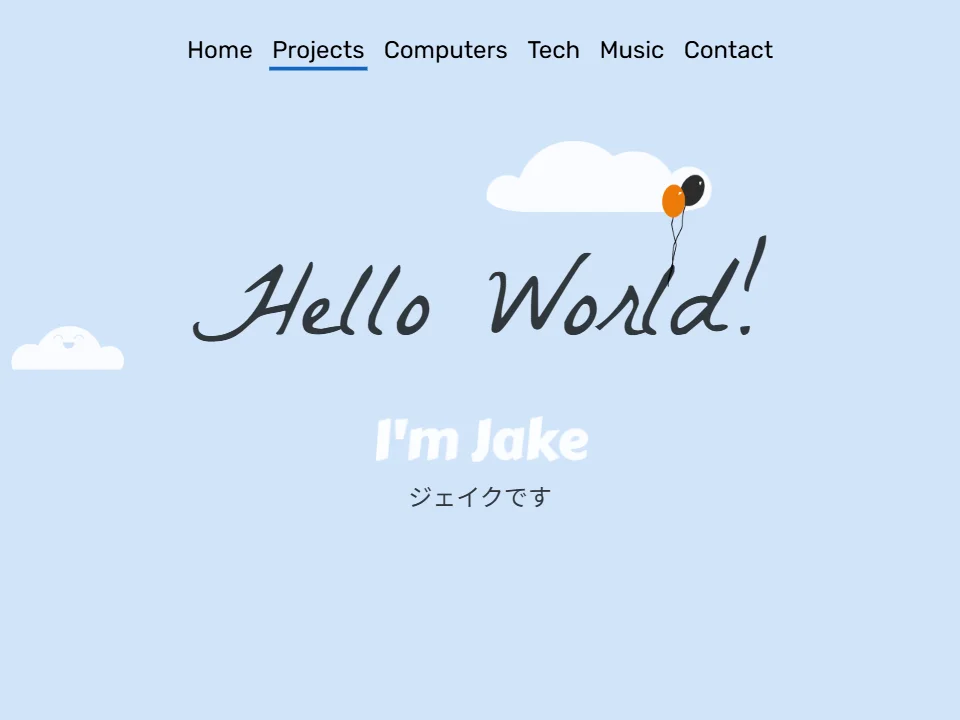
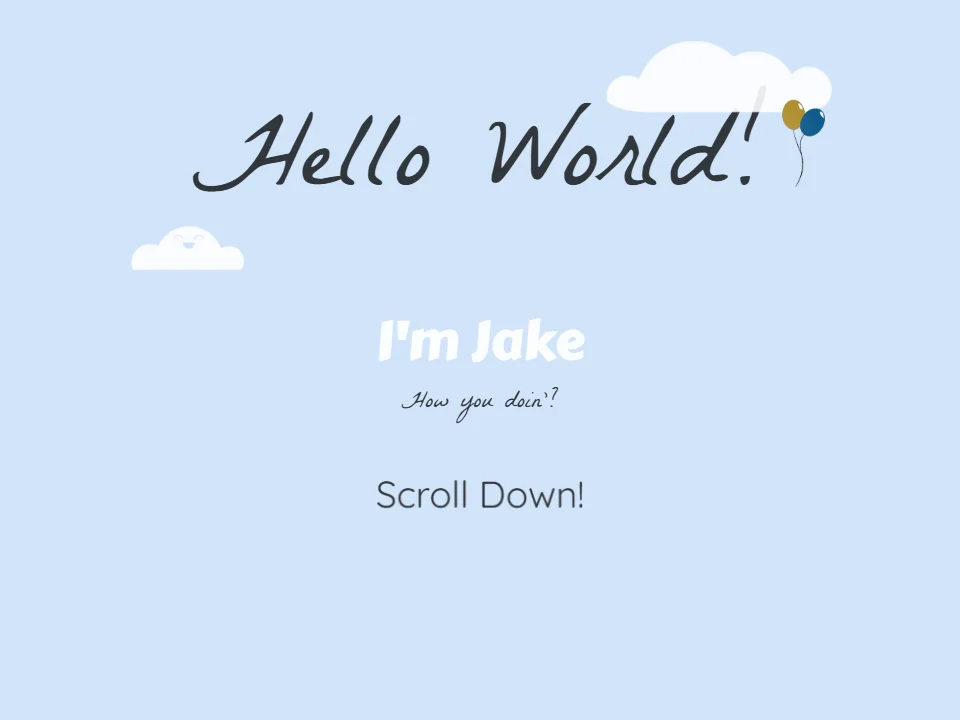
Restore the Personal Site's scroll-down home page
The preview now shows index (2).htm, the later of the old site's two home
pages: the clouds and balloons bounce in, then scrolling slides in About,
Projects, Music and Contact. About's Home link comes back to it, and
Projects links to the old projects page.

All three pages are 960px layouts, so they scale down (zoom on <body>) to
fit the viewer's frame instead of scrolling sideways. The slide-ins
measured their trigger points while "Scroll Down!" was still rising into
place, about 240px too late to ever reach in a tall window; they're
measured again when an entrance animation ends. The card image is retaken
from the new page, and the unused index.static.html is removed.

diff --git a/public/projects/personal-site/index (2).static.html b/public/projects/personal-site/index (2).static.html
@@ -1,0 +1,133 @@
+<!DOCTYPE html>
+<html>
+<head>
+
+<!--
++      o     +              o   
+    +             o     +       +
+o          + 
+    o  +           +        +
++        o     o       +        o
+-_-_-_-_-_-_-_,------,      o 
+_-_-_-_-_-_-_-|   /\_/\  
+-_-_-_-_-_-_-~|__( ^ .^)  +     +  
+_-_-_-_-_-_-_-""  ""      
++      o         o   +       o
+    +         +
+o        o         o      o     +
+    o           +
++      +     o        o      +   
+-->
+
+<meta charset="utf-8"/>
+<meta name="viewport" content="initial-scale=1.0">
+<meta http-equiv="X-UA-Compatible" content="IE=edge,chrome=1" />
+	
+<meta name="description" content="Hello World! I'm Jake, a programmer from Coalinga, CA." />
+<meta name="keywords" content="Jake, Jacob, Motta, san jose, state, sjsu, web design, hi mom" />
+<meta name="robots" content="index, follow" />
+
+
+<!--Hides images until loaded-->
+<script type="text/javascript">
+window.onload = function(){
+  var el = document.getElementById('elementID');
+  el.style.display = 'none';
+};
+</script>
+
+<!--JQuery nav slider animation-->
+<script type="text/javascript" src="https://ajax.googleapis.com/ajax/libs/jquery/1.5.2/jquery.min.js"></script>
+
+<!--what's my name?-->
+<script src="files/js/rText.js"></script>
+
+<title>Jake Motta</title>
+
+<!--These styles are FABULOUS!-->
+<link rel="stylesheet" href="files/animate.min.css"/>
+<link rel="stylesheet" type="text/css" href="files/cssReset.css"/>
+<link rel="stylesheet" type="text/css" href="files/mainCss.css"/>
+<link href='https://fonts.googleapis.com/css?family=La+Belle+Aurore|Rubik:400,500italic|Ubuntu|Barrio|Jockey+One|Montserrat|Sigmar+One|Quicksand|Gloria+Hallelujah:400,400italic|Carter+One' rel='stylesheet' type='text/css'>
+
+</head> <!--"Off with the king's head!" -someone in history -->
+
+<body>
+
+<!--Begin-->   
+    <div class="general-container">
+		<style>html { overflow-x: hidden; }</style>
+		<div id="ich">
+			<div id="intro" class="animated cursiveText">
+				<span class="animated fadeIn huge" style="color:#31363B;">Hello World!</span>
+			</div>
+
+			<img id="cloud1" class="animated bounceInDown" src="files/images/cloud1.png"/>
+			<img id="cloud2" class="animated bounceInDown" src="files/images/cloud2.png"/>
+			<img id="balloons" class="animated bounceInUp" src="files/images/balloons2.png"/>
+		</div>
+		<div class="general-footer"></div>
+	</div>
+
+   	<div class="general-container">
+		<div id="ni" class="animated fadeInUp">
+			<span id="jake" class="animated pulse large ubuntuText" style="color:#FBFDFF; display:block;">I'm Jake</span><br><br>
+			<span class="small cursiveText" style="color:#31363B;"><script>rPick(rText);</script></span><br><br><br><br><br><br>
+			<span class="animated pulse infinite medium quicksand" style="color:#31363B; display:block;">Scroll Down!</span>
+			
+		</div>   
+    	<div class="general-footer"></div>
+	</div>
+ 
+    <div id="san" class="general-container animated" style="opacity:0;">
+    	<div class="optionDiv">
+			<span class="large montserrat center" style="color:#FBFDFF;"><a href="/projects/personal-site/about.static.html">About</a></span>
+		</div>
+    	<div class="general-footer"></div>
+	</div>
+
+   <div id="yon" class="general-container animated" style="opacity:0;">
+   		<div class="optionDiv">
+			<span class="large jockey center" style="color:#FBFDFF;"><a href="projects.static.html">Projects</a></span>
+   		</div>
+    	<div class="general-footer"></div>
+	</div>
+       
+   <div id="go" class="general-container animated" style="opacity:0;">
+   		<div class="optionDiv">
+			<span class="large gloria center" style="color:#FBFDFF;">Music</span>
+   		</div>
+    	<div class="general-footer"></div>
+	</div>
+       
+    <div id="roku" class="general-container animated" style="opacity:0;">
+   		<div class="optionDiv">
+			<span class="large quicksand center" style="color:#FBFDFF;">Contact</span>
+   		</div>
+    	<div class="general-footer"></div>
+	</div>
+        
+<!--End-->
+
+<!--Some files for... file stuff-->
+<script src="files/js/jquery-1.12.0.min.js"></script>
+<script src="files/js/jquery.waypoints.min.js"></script>
+<script src="files/js/waypoints.js"></script>
+
+<!--https://www.youtube.com/watch?v=dQw4w9WgXcQ-->
+<script>
+(function () {
+    var fit = function () {
+        document.body.style.zoom = Math.min(1, document.documentElement.clientWidth / 980);
+    };
+    addEventListener('resize', fit);
+    fit();
+    var remeasure = function () {
+        if (window.Waypoint) Waypoint.refreshAll();
+    };
+    addEventListener('animationend', remeasure);
+    if (document.fonts) document.fonts.ready.then(remeasure);
+})();
+</script>
+</body>
+</html>

diff --git a/public/projects/personal-site/about.static.html b/public/projects/personal-site/about.static.html
@@ -49,7 +49,7 @@ window.onload = function(){
        <div class="general-container">
 		<div id="top-nav" class="animated fadeInDown  normalText" style="color:#31363B;">
 			<ul id="gooeymenu3" class="underlinemenu small normalText">
-				<li><a href="/projects/personal-site/index.static.html" class="selected">Home</a></li>
+				<li><a href="/projects/personal-site/index (2).static.html" class="selected">Home</a></li>
 				<li><a href="#">About</a></li>
 				<li><a href="#">Code</a></li>
 				<li><a href="#">Music</a></li>
@@ -76,5 +76,19 @@ window.onload = function(){
 	<div class="general-footer"></div>
 
 
+<script>
+(function () {
+    var fit = function () {
+        document.body.style.zoom = Math.min(1, document.documentElement.clientWidth / 980);
+    };
+    addEventListener('resize', fit);
+    fit();
+    var remeasure = function () {
+        if (window.Waypoint) Waypoint.refreshAll();
+    };
+    addEventListener('animationend', remeasure);
+    if (document.fonts) document.fonts.ready.then(remeasure);
+})();
+</script>
 </body>
 </html>

diff --git a/public/projects/personal-site/projects.static.html b/public/projects/personal-site/projects.static.html
@@ -132,5 +132,19 @@ body:after{ display:none;content:url(files/images/blackchamber.jpg) url(files/im
 
 </div>
 
+<script>
+(function () {
+    var fit = function () {
+        document.body.style.zoom = Math.min(1, document.documentElement.clientWidth / 980);
+    };
+    addEventListener('resize', fit);
+    fit();
+    var remeasure = function () {
+        if (window.Waypoint) Waypoint.refreshAll();
+    };
+    addEventListener('animationend', remeasure);
+    if (document.fonts) document.fonts.ready.then(remeasure);
+})();
+</script>
 </body>
 </html>

diff --git a/src/common/constants.ts b/src/common/constants.ts
@@ -296,7 +296,7 @@ export const homeProjectList: HomeProject[] = [
         date: '2016',
         tags: ['Website'],
         description: 'My old portfolio, with drifting clouds and balloons tied to its hello.',
-        preview: '/projects/personal-site/index.static.html',
+        preview: '/projects/personal-site/index%20(2).static.html',
     },
     {
         id: 'dan-james',

diff --git a/docs/projects/personal-site.md b/docs/projects/personal-site.md
@@ -2,17 +2,29 @@
 
 Jake's portfolio from 2016 ("Hello World! I'm Jake"), with clouds and balloons that bounce in. The folder is `public/projects/personal-site/`; the card id is `personal-site`.
 
+## Which home page
+
+The folder has two home pages, and the preview shows the later one, `index (2).htm` (Jake chose it on 2026-10-27, wanting the site back the way it used to work):
+- `index (2).htm`: the clouds and balloons bounce in around "Hello World!", then "Scroll Down!", and scrolling slides in About, Projects, Music and Contact.
+- `index.htm`: the same clouds under a menu (Home, Projects, Computers…) whose links are all `#`. Nothing links to it any more, and it has no static copy.
+
+Every copy of the site was searched for this: the repo's history back to its 2018 commits (where the folder was `dev/`) and `Z:\Old Projects\dev` on the NAS. All of them hold the same four pages, so nothing else was ever lost. The site was never finished: About is a heading and a placeholder, and Music and Contact were never links.
+
 ## Preview
 
-`index.htm`, `about.html` and `projects.html` are written as `X.static.html` by `scripts/convert-php-sites.mjs` (its `personal-site` entry):
-- `index.htm` loads a second jQuery over plain `http://`, which an https page blocks. The other two pages link back to it.
+`index (2).htm`, `about.html` and `projects.html` are written as `X.static.html` by `scripts/convert-php-sites.mjs` (its `personal-site` entry):
+- Both home pages load a second jQuery over plain `http://`, which an https page blocks.
+- About's Home link pointed at `index.htm`; it goes to `index (2).static.html` instead (the entry's `redirects`).
+- Projects on the home page is a link to the projects page. Only About was ever a link; Projects was added because the page exists.
 - The projects page's links to Dan James and Black Chamber point at their previews here. The Bay Area Juneteenth and Team SAFE Racing links stay external.
-- The home page clips sideways overflow (`html { overflow-x: hidden }`). Its second cloud and the balloons are nudged right to about 950px, and "I'm Jake" pulses a full-width line to 105% forever. So in anything narrower, like the viewer's frame, it scrolled sideways and kept flickering a scrollbar. About and Projects don't get the rule: they're fixed 960px layouts whose text runs that wide, so clipping would hide it.
+- All three pages are laid out 960px wide, so in a narrower window, like the viewer's frame, a script scales `<body>` down to fit (`zoom`, against the page's width without its scrollbar). The zoom goes on `<body>`: on `<html>` it also changes the window size the slide-ins measure against.
+- The home page clips sideways overflow (`html { overflow-x: hidden }`). The clouds and balloons are nudged right to about 950px, "Scroll Down!" pulses a full-width line to 105% forever, and Projects and Contact slide in from the right. Without the clip, the frame scrolled sideways and kept flickering a scrollbar.
+- The slide-ins (Waypoints) measure where to trigger once, while "Scroll Down!" is still rising into place, so they triggered about 240px too late. In a tall window that's past the end of the page, and only About ever appeared; the original had this bug too. The script measures them again whenever an entrance animation ends and once the fonts load.
 
 Some quirks are the original's own and are left alone:
-- The home page's menu scrolls within the page. Nothing on it links to the About or Projects pages; only `index (2).htm`, an unlinked variant, does.
 - The home page logs `Cannot read properties of null (reading 'style')` on load: its loader hides an `elementID` element that was never in the page. It's harmless.
+- The projects page has no link back home; the browser's Back goes there.
 
 ## Card image
 
-`public/images/projects/personal-site.webp`, shot after the clouds and balloons have bounced in.
+`public/images/projects/personal-site.webp`, shot from `index (2).static.html` after the clouds and balloons have bounced in.

diff --git a/docs/projects/README.md b/docs/projects/README.md
@@ -17,7 +17,7 @@ Every project on the board has an entry in `homeProjectList` (`src/common/consta
 | `survivor` | `/projects/survivor/index.html` (a case study) | [survivor.md](survivor.md) |
 | `arena-king` | `/projects/survivor/arena-king.html` (a write-up of the rules) | [arena-king.md](arena-king.md) |
 | `cs160` | `/projects/cs160/index.html` | [cs160.md](cs160.md) |
-| `personal-site` | `/projects/personal-site/index.static.html` | [personal-site.md](personal-site.md) |
+| `personal-site` | `/projects/personal-site/index%20(2).static.html` | [personal-site.md](personal-site.md) |
 | `dan-james` | `/projects/dan-james/index.static.html` | [dan-james.md](dan-james.md) |
 | `team-safe` | `/projects/motorsport/team-safe/About.html` | [team-safe.md](team-safe.md) |
 | `coloris` | `/projects/coloris/index.html` (Java, through CheerpJ) | [coloris.md](coloris.md) |
